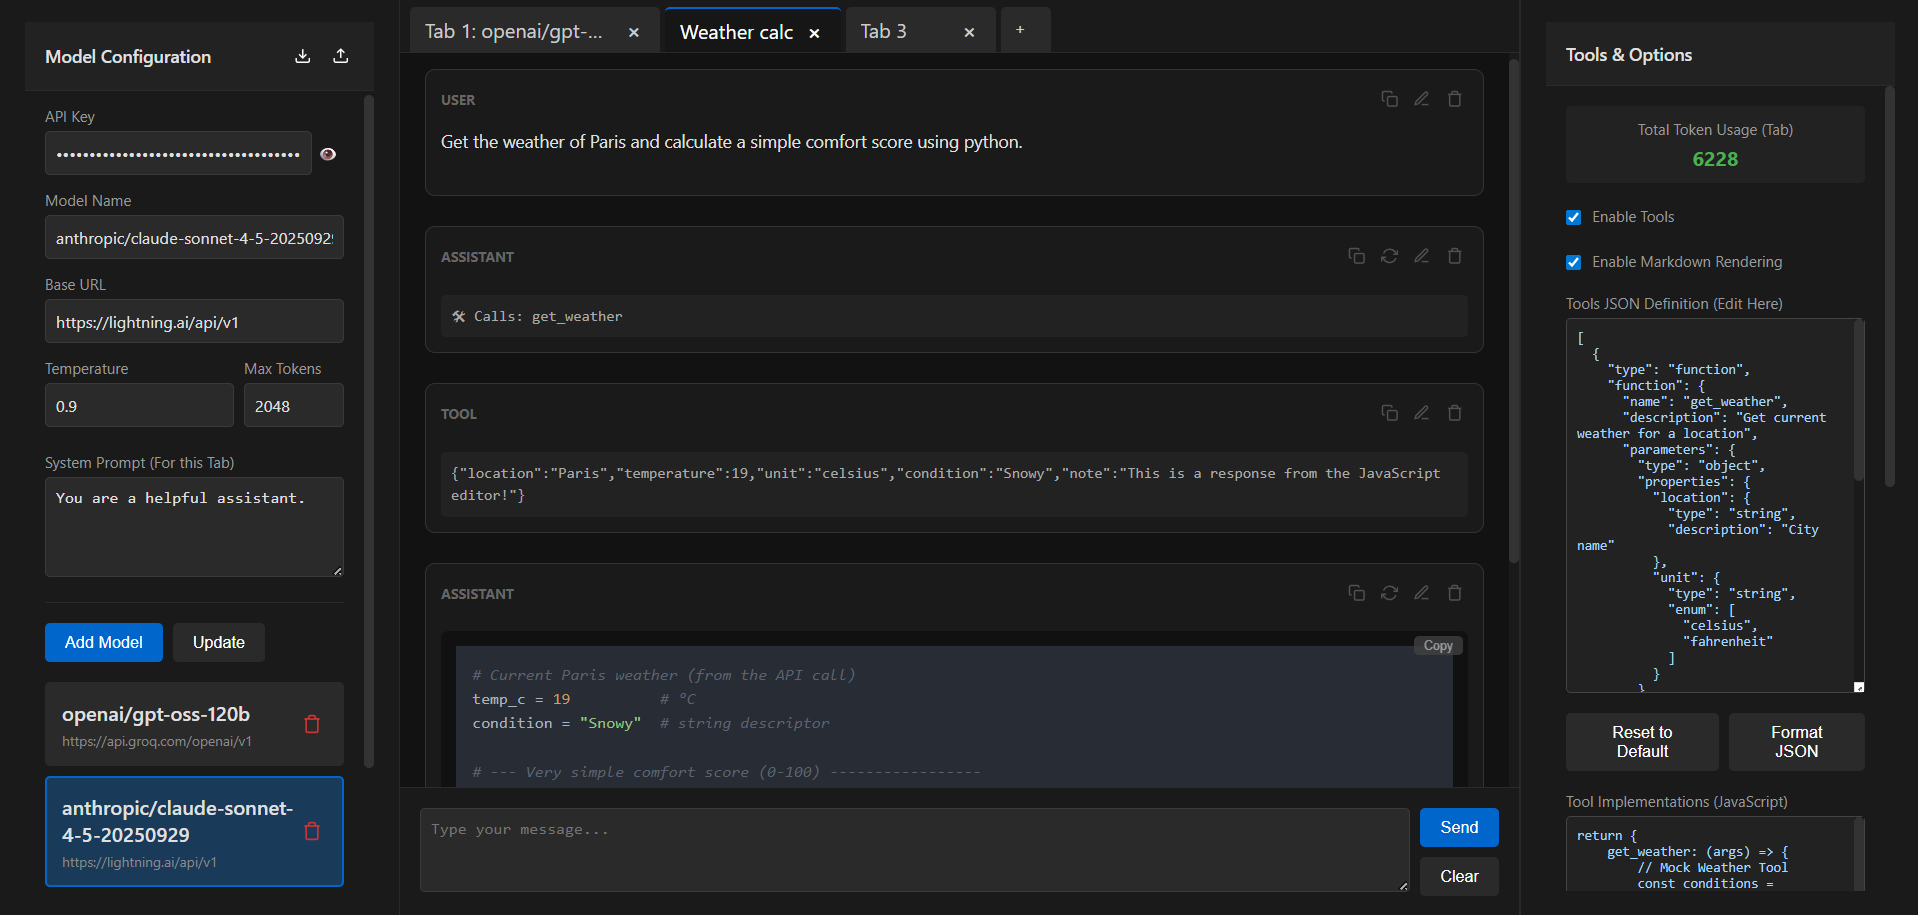
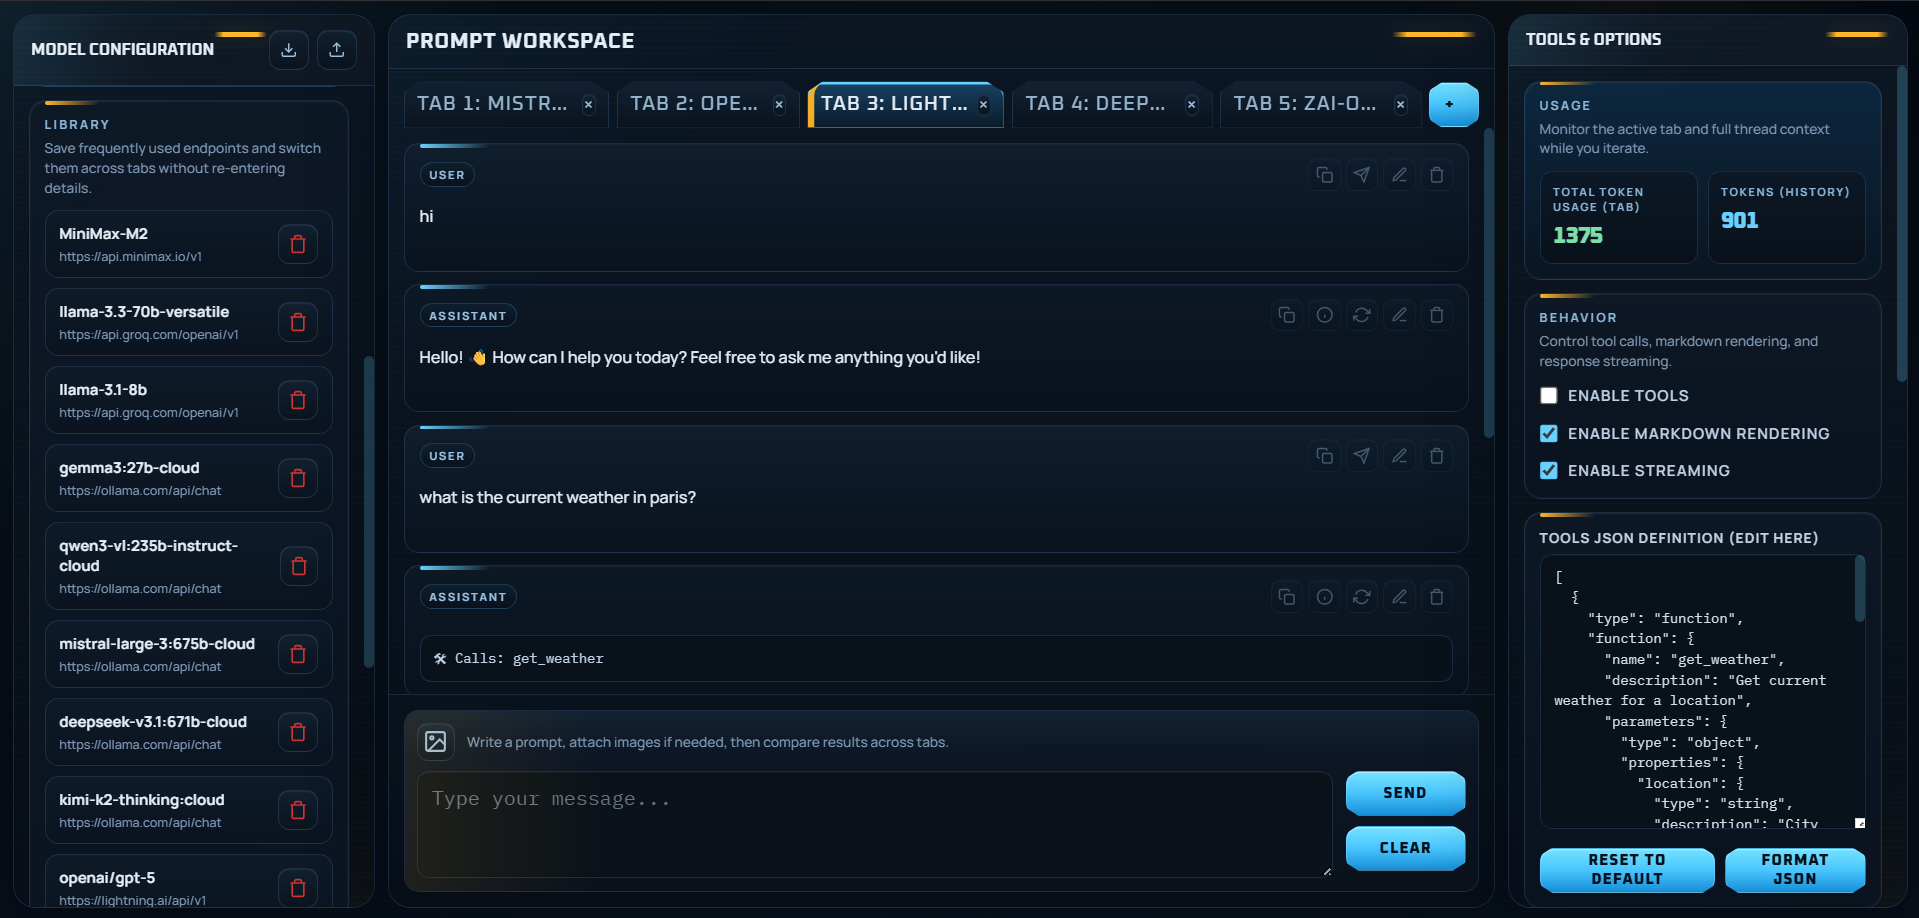
updated readme with recent changes

diff --git a/README.md b/README.md
@@ -1,101 +1,145 @@
-# DevTalk - Pro AI Model Playground
+# DevTalk
 
-DevTalk is a high-performance, developer-centric web playground for testing and interacting with various AI models. Inspired by the **Groq Playground**, it focuses on extreme simplicity and speed, providing a distraction-free environment for model experimentation.
+DevTalk is a lightweight AI playground for testing chat models, comparing runs across tabs, simulating tools, and inspecting responses without leaving the browser.
 
-**🚀 Try it now:** [dev-talk-beta.vercel.app](https://dev-talk-beta.vercel.app/)
+It is built as a static frontend in `public/` with two small serverless proxy handlers in `api/`.
 
 ![DevTalk Interface](public/assets/devtalk_interface.png)
 
-> [!NOTE]
-> **Privacy First**: Everything is stored locally in your browser's LocalStorage. Your API keys and chat history never leave your machine (except when sent directly to the model endpoint).
+> Note
+> Most state is stored locally in your browser, including saved models, tab history, tool definitions, and UI preferences. Requests only leave your machine when you send them to the configured model endpoint or through the optional proxy.
 
-![DevTalk Banner](https://img.shields.io/badge/DevTalk-AI_Playground-blueviolet?style=for-the-badge&logo=openai)
+## What It Can Do
 
-## 🚀 Key Features
+- Manage a reusable model library with API key, base URL, temperature, max tokens, and vision capability per model.
+- Work in multiple chat tabs, with per-tab system prompts and tab renaming.
+- Send requests to OpenAI-compatible endpoints, Ollama-style endpoints, and Lightning.ai-style endpoints that expect `max_completion_tokens`.
+- Toggle server-side proxying, with an option to automatically bypass the proxy for localhost and LAN endpoints.
+- Stream responses in real time and stop generation mid-response.
+- Attach images for vision-capable models.
+- Simulate tool calling with editable tool JSON plus a JavaScript tool implementation editor.
+- Regenerate assistant replies into version history and switch between versions later.
+- Inspect response details such as duration, provider label, prompt tokens, completion tokens, total tokens, and tokens per second.
+- Toggle Markdown rendering for responses, including syntax highlighting and copy buttons for code blocks.
+- Edit, delete, copy, and resend messages from any point in a conversation.
+- Generate ready-to-use request code in `curl`, Python `requests`, or Node `fetch`.
+- Import and export saved models.
+- Export and import playground sessions.
+- Persist the working state locally so the app restores on reload.
+- Use the app on mobile with slide-out side panels.
 
-### 🛠 Model & Tool Management
-- **Multi-Model Support**: Easily switch between different model providers. Supports **OpenAI compatible APIs**, **Ollama**, and **Ollama Cloud** out of the box.
-- **Dynamic Tool Simulation**: Implement and test LLM tools (function calling) on the fly using the built-in JavaScript editor.
-- **System Prompts**: Set per-tab system prompts to steer model behavior.
+## Stack
 
-### 💬 Advanced Chat Interface
-- **Real-Time Streaming**: Toggle between single-response and real-time streaming modes for all supported models.
-- **Tabbed Experience**: Organize multiple chat sessions in tabs. Support for right-click tab renaming and full persistence.
-- **Markdown Rendering**: Toggleable GitHub-style markdown rendering with syntax highlighting via `marked.js` and `highlight.js`.
-- **Direct Message Editing**: Click any message to edit its content directly.
-- **Token Tracking**: Precise token usage monitoring (prompt/completion/total) with support for model-specific usage fields.
+- Frontend: vanilla JavaScript, HTML, CSS
+- Rendering: [Marked.js](https://marked.js.org/) and [Highlight.js](https://highlightjs.org/)
+- Proxy: Vercel-style serverless functions in [`api/proxy.js`](api/proxy.js) and [`api/proxy-stream.js`](api/proxy-stream.js)
 
-### 💻 Developer Tools
-- **Reactive Code Generator**: Automatically generates production-ready code snippets in **cURL**, **Python (requests)**, and **Node.js (fetch)** based on your current playground settings.
-- **Full State Portability**: Export and import your entire environment, including all models, tabs, tool definitions, and custom tool code.
+## Project Structure
 
-### 📱 Responsive Design
-- **Mobile First**: Fully responsive layout with slide-out sidebars (80% width) and overlay system for a seamless mobile experience.
+```text
+DevTalk/
+|- api/
+|  |- proxy.js
+|  `- proxy-stream.js
+|- public/
+|  |- app.js
+|  |- index.html
+|  |- styles.css
+|  `- assets/
+|- package.json
+`- README.md
+```
 
----
+## Running Locally
 
-## 🛠 Tech Stack
+This repo currently has no npm scripts and no installed package dependencies. The old `npm run dev` flow documented previously is no longer accurate.
 
-- **Frontend**: Vanilla JavaScript (ES6+), HTML5, CSS3.
-- **Markdown**: [Marked.js](https://marked.js.org/) & [Highlight.js](https://highlightjs.org/).
-- **Backend (Proxy)**: Node.js / Vercel Serverless Functions (for handling CORS and API key security).
-- **Icons**: [Lucide](https://lucide.dev/) (SVG implementation).
+### Option 1: Frontend only
 
----
+If you only need the UI and plan to call providers directly from the browser, serve the `public/` folder with any static file server.
 
-## 🚦 Getting Started
+Examples:
 
-### Prerequisites
-- [Node.js](https://nodejs.org/) (v16 or higher recommended)
-- [npm](https://www.npmjs.com/)
+```bash
+# Python
+python -m http.server 3000 --directory public
+```
 
-### Installation
+```bash
+# Node
+npx serve public
+```
 
-1. **Clone the repository**:
-   ```bash
-   git clone https://github.com/Myster-Pmf/DevTalk.git
-   cd DevTalk
-   ```
+In this mode, leave proxying disabled in the UI if your target endpoint supports direct browser requests.
 
-2. **Install dependencies**:
-   ```bash
-   npm install
-   ```
+### Option 2: Full app with proxy routes
 
-3. **Run the development server**:
-   ```bash
-   npm run dev
-   ```
-   *The app should now be running at `http://localhost:3000` (or your configured port).*
+If you want to use the built-in `/api/proxy` and `/api/proxy-stream` routes, run the project in an environment that supports Vercel-style serverless functions, or deploy it to Vercel.
 
----
+The proxy is useful when:
 
-## 📖 Usage
+- your provider blocks browser-origin requests with CORS
+- you want the browser to call your own server route instead of the provider directly
+- you want the app to stream through the proxy endpoint
 
-1. **Configure a Model**: Enter your API key, Model Name, and Base URL in the left sidebar.
-2. **Setup Tools (Optional)**: In the right sidebar, define tool JSON and write your simulator logic in the JS code editor.
-3. **Toggle Streaming**: Enable "Real-Time Streaming" in the right panel for incremental responses, or disable it for single JSON blocks.
-4. **Chat**: Use the bottom input to send messages. Toggle Markdown in the right panel if needed.
-5. **Export Your Work**: Use the "Export Chat" button to save your entire configuration for later use.
+## Usage
 
----
+1. Add a model in the left panel.
+2. Pick the base URL for your provider or local server.
+3. Enable `Vision Model` if that model should receive attached images.
+4. In the right panel, decide whether you want tools, Markdown rendering, streaming, and proxying enabled.
+5. Start chatting in the center panel.
+6. Use tabs to compare prompts, providers, or prompt variants side by side.
 
-## 🤝 Contributing
+## Feature Notes
 
-Contributions are welcome! Please feel free to submit a Pull Request.
+### Model Handling
 
-1. Fork the Project
-2. Create your Feature Branch (`git checkout -b feature/AmazingFeature`)
-3. Commit your Changes (`git commit -m 'Add some AmazingFeature'`)
-4. Push to the Branch (`git push origin feature/AmazingFeature`)
-5. Open a Pull Request
+- Saved models are reusable across tabs.
+- Import skips duplicate models when possible.
+- Tabs keep their own selected model reference and system prompt.
 
----
+### Chat Workflow
 
-## 📄 License
+- `Send` turns into `Stop` while a response is streaming.
+- Assistant replies can store multiple regenerated versions.
+- User messages can be resent from a specific point to branch the conversation.
 
-Distributed under the MIT License. See `LICENSE` for more information.
+### Tool Simulation
 
----
+- Tool schemas are edited as JSON.
+- Tool implementations are authored in JavaScript and executed in-browser.
+- When a model returns tool calls, DevTalk simulates them and appends tool results into the chat.
 
-Developed with ❤ by [Myster-Pmf](https://github.com/Myster-Pmf)
+### Response Inspection
+
+- The right panel tracks total token usage for the active tab.
+- History token count uses stored values when available and falls back to estimation otherwise.
+- Assistant messages can expose per-response metadata from the current version.
+
+### Imports and Exports
+
+- Model export/import is separate from full chat export/import.
+- Full chat export includes models, tabs, tool definitions, tool code, and Markdown preference.
+- Legacy chat imports with only `messages` are still supported.
+
+## What Changed From The Old README
+
+The previous README was behind the current codebase. It missed or misstated several things, including:
+
+- there is no current `npm run dev` script
+- model import/export support exists
+- image attachments and vision-model handling exist
+- assistant response versioning exists
+- response metadata/details exist
+- proxy bypass for local network endpoints exists
+- code generation exists for `curl`, Python, and Node
+- message editing, resend, regenerate, and per-message actions are richer than previously documented
+
+## License
+
+Distributed under the MIT License. See [LICENSE](LICENSE).
+
+## Author
+
+Created by [Myster-Pmf](https://github.com/Myster-Pmf)
